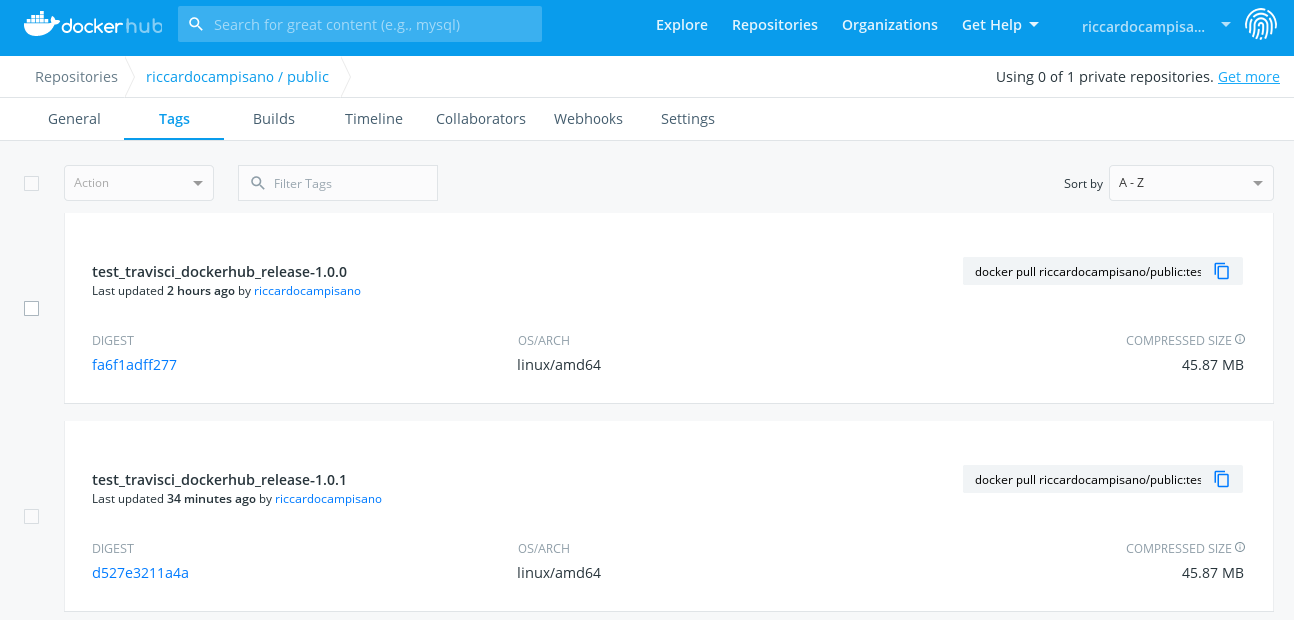
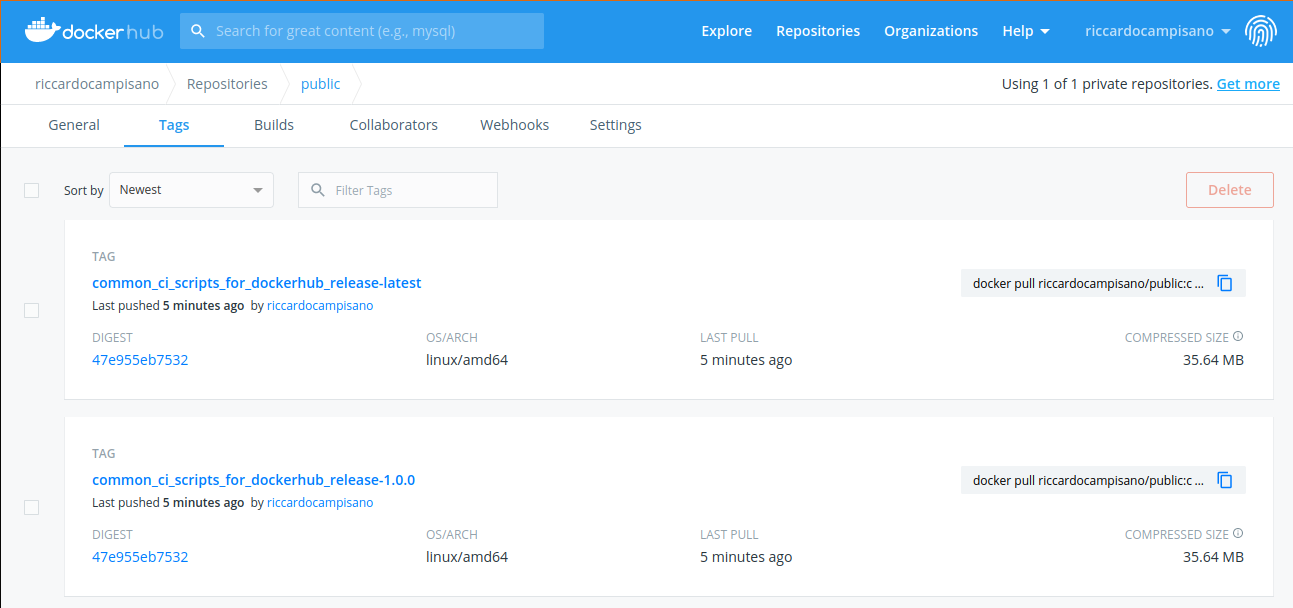
feature:    docs - update README.md images and links for Gitlab migration

diff --git a/README.md b/README.md
@@ -1,18 +1,17 @@
-[![Build Status](https://api.travis-ci.com/campisano/test_travisci_dockerhub_release.svg?branch=master "Build Status")](https://travis-ci.com/campisano/test_travisci_dockerhub_release)
-[![Test Coverage](https://codecov.io/gh/campisano/test_travisci_dockerhub_release/branch/master/graph/badge.svg "Test Coverage")](https://codecov.io/gh/campisano/test_travisci_dockerhub_release)
-[![Code Quality](https://img.shields.io/lgtm/grade/cpp/g/campisano/test_travisci_dockerhub_release.svg "Code Quality")](https://lgtm.com/projects/g/campisano/test_travisci_dockerhub_release/context:cpp)
-[![Sonar Coverage](https://sonarcloud.io/api/project_badges/measure?project=campisano/test_travisci_dockerhub_release&metric=coverage)](https://sonarcloud.io/dashboard?id=campisano/test_travisci_dockerhub_release)
-[![Sonar Quality Gate](https://sonarcloud.io/api/project_badges/measure?project=campisano/test_travisci_dockerhub_release&metric=alert_status)](https://sonarcloud.io/dashboard?id=campisano/test_travisci_dockerhub_release)
-
-[![Docker Hub](https://img.shields.io/docker/image-size/riccardocampisano/public/test_travisci_dockerhub_release-latest?label=test_travisci_dockerhub_release-latest&logo=docker)](https://hub.docker.com/r/riccardocampisano/public/tags?name=test_travisci_dockerhub_release)
+[![Build Status](https://gitlab.com/campisano/common_ci_scripts_for_dockerhub_release/badges/master/pipeline.svg "Build Status")](https://gitlab.com/campisano/common_ci_scripts_for_dockerhub_release)
+[![Test Coverage](https://codecov.io/gh/campisano/common_ci_scripts_for_dockerhub_release/branch/master/graph/badge.svg "Test Coverage")](https://codecov.io/gh/campisano/common_ci_scripts_for_dockerhub_release)
+[![Code Quality](https://img.shields.io/lgtm/grade/cpp/g/campisano/common_ci_scripts_for_dockerhub_release.svg "Code Quality")](https://lgtm.com/projects/g/campisano/common_ci_scripts_for_dockerhub_release/context:cpp)
+[![Sonar Coverage](https://sonarcloud.io/api/project_badges/measure?project=common_ci_scripts_for_dockerhub_release&metric=coverage "Sonar Coverage")](https://sonarcloud.io/dashboard?id=common_ci_scripts_for_dockerhub_release)
+[![Sonar Maintainability](https://sonarcloud.io/api/project_badges/measure?project=common_ci_scripts_for_dockerhub_release&metric=sqale_rating "Sonar Maintainability")](https://sonarcloud.io/dashboard?id=common_ci_scripts_for_dockerhub_release)
+[![Docker Image](https://img.shields.io/docker/image-size/riccardocampisano/public/common_ci_scripts_for_dockerhub_release-latest?label=common_ci_scripts_for_dockerhub_release-latest&logo=docker "Docker Image")](https://hub.docker.com/r/riccardocampisano/public/tags?name=common_ci_scripts_for_dockerhub_release)
 
 # Sample CI/CD project with dockerhub integration
 
-This project shows how to setup a pipeline using travis-ci to:
-- build and test a (C++) project using a specific docker image;
+This project shows how to setup a pipeline using CI services like GitLab or travis-ci to:
+- build and test a (C++/Java/etc) project using a specific docker image;
 - produce and send coverage info to sonarcloud.io and codecov.io;
-- build a release docker image and push it back to hub.docker.com;
-- create the image-related tag and push it back to github.com.
+- build a docker image, tag and push it to hub.docker.com;
+- create the image-related git tag and push it back to your repository.
 
 
 
@@ -21,16 +20,15 @@ This project shows how to setup a pipeline using travis-ci to:
 1) not-master branch:
     - build, test, coverage
 0) master branch:
-    - check no git tag and create new one
     - build, test, coverage
-    - build docker image
-    - push docker image
+    - ensure uniqueness and push a new git tag
+    - build and pus docker image
 
 
 
 ## CI requirements:
     - docker repository (hub.docker.com) push access
-    - git remote (github.com) push access
+    - git remote (gitlab.com) push access
     - sonarcloud.io bind
     - codecov.io access
 
@@ -38,7 +36,7 @@ This project shows how to setup a pipeline using travis-ci to:
 
 ## Configuration:
 
-1) configure the follows travis-ci environment variables:
+1) configure the follows pipeline environment variables:
     - DOCKER_USERNAME
     - DOCKER_PASSWORD
     - DOCKER_REPOSITORY
@@ -57,16 +55,16 @@ This project shows how to setup a pipeline using travis-ci to:
 
 ## Screenshots:
 
-* travis-ci env vars configs
+* required pipeline env vars
 
-![Alt text](/doc/README.md/travisci-config.png?raw=true "travis-ci env vars")
-
-
-* travis-ci builds
-
-![Alt text](/doc/README.md/travisci-builds.png?raw=true "travis-ci builds")
+![Alt text](/doc/README.md/pipeline-env-vars.png?raw=true "pipeline env vars")
 
 
-* dockerhub images
+* resulting pipeline builds
+
+![Alt text](/doc/README.md/pipeline-builds.png?raw=true "pipeline builds")
+
+
+* resulting dockerhub images
 
 ![Alt text](/doc/README.md/dockerhub-images.png?raw=true "dockerhub images")
